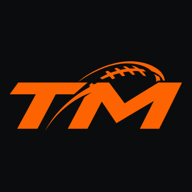
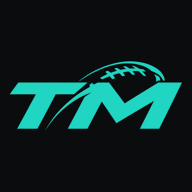
Switch site colors to Teal & Slate
Recolors the theme variables (light and dark), the sign-in and account
hero glows, the logo and the app icons. Bumps cache-busters. Emails and
the gold #1-finish styling are unchanged.

Claude-Session: https://claude.ai/code/session_01XjHeCyyyXGdMqQY23Dk5sT

Changed region(s): [[0.0312, 0.3125, 0.9688, 0.6875]]

diff --git a/css/styles.css b/css/styles.css
@@ -1,9 +1,9 @@
 /* Layout: sticky black/white command bar, page hero with scoreboard tiles, then two-column workspaces of cards. Team colors carry the personality. */
 :root{
-  --bg:#F4F5F7; --surface:#FFFFFF; --surface-2:#F0F1F4; --surface-3:#E6E8EC; --ink:#0B0C0E; --muted:#636872; --line:#E2E4E8;
-  --accent:#FF4F12; --accent-ink:#FFFFFF; --accent-soft:#FFEDE4;
+  --bg:#F2F5F6; --surface:#FFFFFF; --surface-2:#ECF1F2; --surface-3:#E0E7E9; --ink:#0B1416; --muted:#5C6A6E; --line:#DCE4E6;
+  --accent:#0B8F86; --accent-ink:#FFFFFF; --accent-soft:#DDF4F1;
   --good:#0F9D4F; --good-soft:#E2F5EA; --bad:#E0373B; --bad-soft:#FCE6E6; --warn:#B87500; --warn-soft:#FFF2D2;
-  --bar:#0B0C0E; --bar-ink:#FFFFFF;
+  --bar:#0E1F26; --bar-ink:#FFFFFF;
   --shadow:0 1px 2px rgba(11,12,14,.05),0 6px 20px rgba(11,12,14,.06);
   --f-display:"Kanit","Arial",sans-serif;
   --f-body:"Inter",system-ui,-apple-system,"Segoe UI",sans-serif;
@@ -11,15 +11,15 @@
   --r:10px; --r-sm:6px;
 }
 @media (prefers-color-scheme: dark){:root:not([data-theme="light"]){
-  --bg:#050607; --surface:#0F1113; --surface-2:#16191C; --surface-3:#1F2327; --ink:#F2F3F5; --muted:#949AA3; --line:#22262A;
-  --accent:#FF6A33; --accent-ink:#170700; --accent-soft:#2B1409;
+  --bg:#040708; --surface:#0B1316; --surface-2:#121C20; --surface-3:#1A272C; --ink:#EDF3F4; --muted:#8B9A9E; --line:#1C2A2F;
+  --accent:#33D1C3; --accent-ink:#00201D; --accent-soft:#0A2A28;
   --good:#3CD88A; --good-soft:#0E2A1B; --bad:#FF6B6E; --bad-soft:#2F1213; --warn:#F5BA42; --warn-soft:#2B2008;
-  --bar:#0F1113; --bar-ink:#F2F3F5; --shadow:0 0 0 1px rgba(255,255,255,.02); color-scheme:dark}}
+  --bar:#0B1316; --bar-ink:#EDF3F4; --shadow:0 0 0 1px rgba(255,255,255,.02); color-scheme:dark}}
 :root[data-theme="dark"]{
-  --bg:#050607; --surface:#0F1113; --surface-2:#16191C; --surface-3:#1F2327; --ink:#F2F3F5; --muted:#949AA3; --line:#22262A;
-  --accent:#FF6A33; --accent-ink:#170700; --accent-soft:#2B1409;
+  --bg:#040708; --surface:#0B1316; --surface-2:#121C20; --surface-3:#1A272C; --ink:#EDF3F4; --muted:#8B9A9E; --line:#1C2A2F;
+  --accent:#33D1C3; --accent-ink:#00201D; --accent-soft:#0A2A28;
   --good:#3CD88A; --good-soft:#0E2A1B; --bad:#FF6B6E; --bad-soft:#2F1213; --warn:#F5BA42; --warn-soft:#2B2008;
-  --bar:#0F1113; --bar-ink:#F2F3F5; --shadow:0 0 0 1px rgba(255,255,255,.02); color-scheme:dark}
+  --bar:#0B1316; --bar-ink:#EDF3F4; --shadow:0 0 0 1px rgba(255,255,255,.02); color-scheme:dark}
 *{box-sizing:border-box}
 [hidden]{display:none!important}
 body{background:var(--bg);color:var(--ink);font-family:var(--f-body);font-size:14px;line-height:1.45;-webkit-font-smoothing:antialiased}
@@ -540,8 +540,8 @@ label.btn.shot-btn{display:inline-flex;align-items:center;gap:8px;white-space:no
 .acct-av{display:grid;place-items:center;width:100%;height:100%}.acct-av img{width:100%;height:100%;object-fit:cover;display:block}
 /* Sign-in page: brand panel + form. One radius (10px), 1px borders throughout. */
 .auth-wrap{--ar:10px;display:grid;grid-template-columns:minmax(0,1.04fr) minmax(0,1fr);max-width:1000px;width:100%;margin:8px auto 40px;background:var(--surface);border:1px solid var(--line);border-radius:var(--ar);overflow:hidden;box-shadow:0 1px 2px rgba(11,12,14,.05),0 24px 60px -28px rgba(11,12,14,.28)}
-.auth-brand{position:relative;padding:34px 36px 32px;background:#0B0C0E;color:#fff;display:flex;flex-direction:column;gap:20px;overflow:hidden;isolation:isolate;border-right:1px solid rgba(255,255,255,.06)}
-.auth-brand::before{content:"";position:absolute;inset:0;z-index:-1;background:radial-gradient(110% 60% at 100% 0%,rgba(255,79,18,.5),transparent 60%),radial-gradient(90% 55% at 0% 100%,rgba(255,79,18,.16),transparent 70%)}
+.auth-brand{position:relative;padding:34px 36px 32px;background:#0C1B21;color:#fff;display:flex;flex-direction:column;gap:20px;overflow:hidden;isolation:isolate;border-right:1px solid rgba(255,255,255,.06)}
+.auth-brand::before{content:"";position:absolute;inset:0;z-index:-1;background:radial-gradient(110% 60% at 100% 0%,rgba(31,209,193,.5),transparent 60%),radial-gradient(90% 55% at 0% 100%,rgba(31,209,193,.16),transparent 70%)}
 .auth-brand::after{content:"";position:absolute;inset:0;z-index:-1;opacity:.07;background:repeating-linear-gradient(90deg,#fff 0 1px,transparent 1px 64px);mask-image:linear-gradient(180deg,transparent,#000 35%,#000 70%,transparent)}
 .auth-brand-top{display:flex;align-items:center;justify-content:space-between;gap:12px}
 .auth-brand-logo{display:flex;align-items:center;gap:10px}.auth-brand-logo img{height:30px;width:auto}
@@ -956,8 +956,8 @@ body.signed-out .league-switch{display:none}
 @media (max-width:620px){.nt{grid-template-columns:58px minmax(0,1fr) 54px;gap:8px}.nt>span:nth-child(2){display:none}.nt-odds{grid-template-columns:minmax(0,1fr) 40px}.need-k{font-size:36px;min-width:50px}}
 /* Account page */
 /* Account area */
-.acc-hero{position:relative;border-radius:18px;overflow:hidden;background:#0B0C0E;color:#fff;isolation:isolate;border:1px solid var(--line)}
-.acc-hero::before{content:"";position:absolute;inset:0;z-index:-1;background:radial-gradient(70% 140% at 100% 0%,rgba(255,79,18,.55),transparent 62%),radial-gradient(50% 120% at 0% 100%,rgba(255,79,18,.16),transparent 70%)}
+.acc-hero{position:relative;border-radius:18px;overflow:hidden;background:#0C1B21;color:#fff;isolation:isolate;border:1px solid var(--line)}
+.acc-hero::before{content:"";position:absolute;inset:0;z-index:-1;background:radial-gradient(70% 140% at 100% 0%,rgba(31,209,193,.55),transparent 62%),radial-gradient(50% 120% at 0% 100%,rgba(31,209,193,.16),transparent 70%)}
 .acc-hero::after{content:"";position:absolute;inset:0;z-index:-1;opacity:.08;background:repeating-linear-gradient(90deg,#fff 0 1px,transparent 1px 64px)}
 .acc-hero-in{display:grid;grid-template-columns:auto minmax(0,1fr) auto;gap:22px;align-items:center;padding:30px 30px}
 .acc-av{width:84px;height:84px;border-radius:50%;background:var(--accent);color:#fff;display:grid;place-items:center;font:italic 800 38px var(--f-display);overflow:hidden;box-shadow:0 0 0 4px rgba(255,255,255,.12)}

diff --git a/index.html b/index.html
@@ -6,26 +6,26 @@
 if(location.hostname==='trademetric-rho.vercel.app')location.replace('https://www.trademetric.app'+location.pathname+location.search+location.hash)</script>
 <meta name="viewport" content="width=device-width,initial-scale=1,viewport-fit=cover">
 <title>TradeMetric</title>
-<link rel="icon" type="image/png" sizes="32x32" href="/favicon-32.png?v=3">
-<link rel="icon" type="image/png" sizes="512x512" href="/icon-512.png?v=3">
-<link rel="apple-touch-icon" href="/apple-touch-icon.png?v=3">
-<link rel="manifest" href="/manifest.webmanifest?v=1">
+<link rel="icon" type="image/png" sizes="32x32" href="/favicon-32.png?v=4">
+<link rel="icon" type="image/png" sizes="512x512" href="/icon-512.png?v=4">
+<link rel="apple-touch-icon" href="/apple-touch-icon.png?v=4">
+<link rel="manifest" href="/manifest.webmanifest?v=2">
 <meta name="mobile-web-app-capable" content="yes">
 <meta name="apple-mobile-web-app-capable" content="yes">
 <meta name="apple-mobile-web-app-title" content="TradeMetric">
 <meta name="apple-mobile-web-app-status-bar-style" content="black">
-<meta name="theme-color" content="#141414">
+<meta name="theme-color" content="#0E1F26">
 <link rel="preconnect" href="https://fonts.googleapis.com">
 <link rel="stylesheet" href="https://fonts.googleapis.com/css2?family=IBM+Plex+Mono:wght@400;500;600&family=Inter:wght@400;500;600;700;800&family=Kanit:ital,wght@0,700;0,800;1,600;1,700;1,800&display=swap">
 <meta name="description" content="Fantasy football trades, rankings and lineup advice built on your league's exact settings.">
-<link rel="stylesheet" href="css/styles.css?v=51">
+<link rel="stylesheet" href="css/styles.css?v=52">
 <script src="js/telemetry.js?v=6"></script>
 <script src="js/plan.js?v=4"></script>
 </head>
 <body class="signed-out">
 <div class="topbar">
   <div class="wrap topbar-in">
-    <a class="logo" href="#team" aria-label="TradeMetric home"><img class="logo-img" src="/logo-tm.png?v=3" width="398" height="160" alt=""><b>Trade<span>Metric</span></b></a>
+    <a class="logo" href="#team" aria-label="TradeMetric home"><img class="logo-img" src="/logo-tm.png?v=4" width="398" height="160" alt=""><b>Trade<span>Metric</span></b></a>
     <nav class="nav" aria-label="Sections">
       <button data-tab="team">My Team</button>
       <button data-tab="news">News</button>
@@ -180,7 +180,7 @@ if(location.hostname==='trademetric-rho.vercel.app')location.replace('https://ww
     <div class="auth-wrap">
       <aside class="auth-brand" aria-label="What you get with TradeMetric">
         <div class="auth-brand-top">
-          <div class="auth-brand-logo"><img src="/logo-tm.png?v=3" width="398" height="160" alt=""><b>Trade<span>Metric</span></b></div>
+          <div class="auth-brand-logo"><img src="/logo-tm.png?v=4" width="398" height="160" alt=""><b>Trade<span>Metric</span></b></div>
           <span class="auth-beta">Free during the beta</span>
         </div>
         <h2>Win the trade.<br>Win the league.</h2>

diff --git a/privacy.html b/privacy.html
@@ -6,8 +6,8 @@
 if(location.hostname==='trademetric-rho.vercel.app')location.replace('https://www.trademetric.app'+location.pathname+location.search+location.hash)</script>
 <meta name="viewport" content="width=device-width,initial-scale=1">
 <title>Privacy Policy · TradeMetric</title>
-<link rel="icon" type="image/png" sizes="32x32" href="/favicon-32.png?v=3">
-<meta name="theme-color" content="#141414">
+<link rel="icon" type="image/png" sizes="32x32" href="/favicon-32.png?v=4">
+<meta name="theme-color" content="#0E1F26">
 <link rel="preconnect" href="https://fonts.googleapis.com">
 <link rel="stylesheet" href="https://fonts.googleapis.com/css2?family=Inter:wght@400;500;600;700&family=Kanit:ital,wght@1,800&display=swap">
 <link rel="stylesheet" href="/css/styles.css">
@@ -22,7 +22,7 @@ if(location.hostname==='trademetric-rho.vercel.app')location.replace('https://ww
 </style>
 </head>
 <body>
-<div class="topbar"><div class="wrap topbar-in"><a class="logo" href="/" aria-label="TradeMetric home"><img class="logo-img" src="/logo-tm.png?v=3" width="398" height="160" alt=""><b>Trade<span>Metric</span></b></a></div></div>
+<div class="topbar"><div class="wrap topbar-in"><a class="logo" href="/" aria-label="TradeMetric home"><img class="logo-img" src="/logo-tm.png?v=4" width="398" height="160" alt=""><b>Trade<span>Metric</span></b></a></div></div>
 <main class="wrap"><article class="legal">
   <div class="kicker">TradeMetric</div>
   <h1>Privacy Policy</h1>

diff --git a/sw.js b/sw.js
@@ -12,7 +12,7 @@ self.addEventListener('push', e => {
   try { d = e.data ? e.data.json() : {}; } catch (err) { d = { body: e.data ? e.data.text() : '' }; }
   const opts = {
     body: d.body || '',
-    icon: '/icon-192.png?v=1',
+    icon: '/icon-192.png?v=2',
     badge: '/badge-96.png?v=1',
     data: { url: d.url || '/' },
   };
